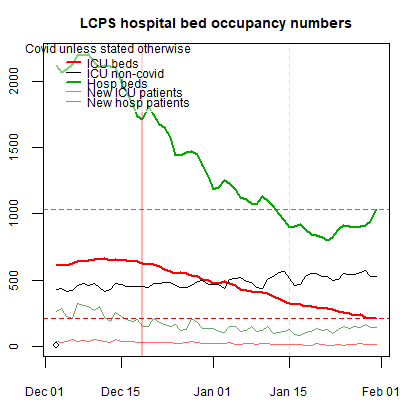
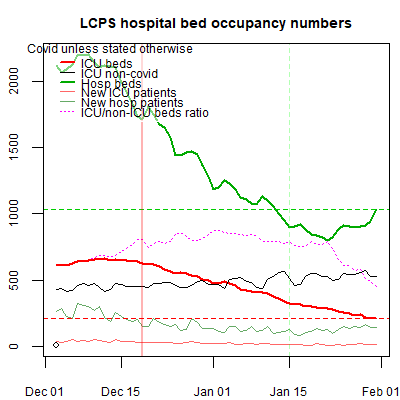
Jan 31, 2022

Changed region(s): [[0.06, 0.09, 0.54, 0.3]]

diff --git a/README.md b/README.md
@@ -1,6 +1,6 @@
 # COVID-19 in the Netherlands
 _Author: Jay Lee_  
-<i>Last update: Mon, Jan 31, 2022  3:28:51 PM</i>
+<i>Last update: Mon, Jan 31, 2022  6:45:15 PM</i>
 
 Table of Contents
 =================
@@ -12,6 +12,7 @@ Table of Contents
    * [Hospital occupancy trends](#hospital-occupancy-trends)
       * [Lockdown prediction](#lockdown-prediction)
    * [Omicron](#omicron)
+      * [ICU v. non-ICU](#icu-v-non-icu)
    * [Within NL cities/towns/provinces](#within-nl-citiestownsprovinces)
 * [Trends in nearby countries](#trends-in-nearby-countries)
 * [Covid by age](#covid-by-age)
@@ -139,14 +140,17 @@ header-includes: <link rel="icon" href="file:///C:/Users/60140jle/DROPBO~1/usr/p
 * Faint arrows indicated the temporal trajectory.  
 * The points are sized by new daily deaths.  
 * The grey, dashed diagonal bisects the plot.  
+* Y-axis:  
+  - Left plot: New daily hospitalizations (regular+ICU)  
+  - Right plot: Hospital bed occupancy (regular+IC)  
     
-<p align="center"><img src="/fig/cv_n_knoc.png" width="40%"><img src="/fig/cv_n_kb.png" width="40%"></p>  
+<p align="center"><img src="/fig/cv_n_noc.png" width="40%"><img src="/fig/cv_n_kib.png" width="40%"></p>  
   
 * <ins>Observations:</ins>  
   - The dark blue arm -- at 12 o'clock -- represents the 1st wave when seemingly fewer infections incurred high hospitalization occupancy as well as deaths.  
     + However, covid testing was at its infancy in this period.  
-  - The light blue arm -- at one o'clock -- represents the 2nd wave of the pandemic when fewer infections caused more hospitalizations and deaths.  
-  - The red arm -- at two o'clock, near the diagonal line -- represents vaccination era, when infections led to fewer hospitalizations and deaths, than in the earlier days.  
+  - The light blue arm represents the 2nd wave of the pandemic when fewer infections caused more hospitalizations and deaths.  
+  - The red arm represents vaccination era, when infections led to fewer hospitalizations and deaths, than in the earlier days.  
   - **The dark red arm -- at three o'clock -- represents the omicron era, in which hospitalizations and deaths seem invariant to (even high) number of infections.**  
     + Interesting: there appears to be a similar horizontal invariance around the middle of the pandemic: <orange>orange</orange> points whose trajectory is rectangular/counter-clockwise.  
 	+ The daily ICU admissions (as _y_-axis, but plot not shown) exhibit a similar pattern.  
@@ -156,7 +160,17 @@ header-includes: <link rel="icon" href="file:///C:/Users/60140jle/DROPBO~1/usr/p
   
 The plots below log transform the _x_-axis (# of daily new infections), to stretch out those numbers.  
   
-<p align="center"><img src="/fig/cv_n_knoc_log.png" width="40%"><img src="/fig/cv_n_kb_log.png" width="40%"></p>  
+<p align="center"><img src="/fig/cv_n_noc_log.png" width="40%"><img src="/fig/cv_n_kib_log.png" width="40%"></p>  
+  
+### ICU v. non-ICU  
+  
+Here, non-ICU hospital bed occupancy (_x_-axis) plotted against ICU bed occupancy (_y_-axis).  
+- Points left of the diagonal could indicate more severe covid.  
+- The unidimensional ratio can be seen in the purple line of plots of [2.2](#hospital-occupancy-trends)  
+  - But this doesn't easily explain (to me) the semi-circular trajectories.  
+  
+<p align="center"><img src="/fig/cv_kb_ibc.png" width="40%"><img src="/fig/cv_kb_ibc_log.png" width="40%"></p>  
+  
   
   
   
